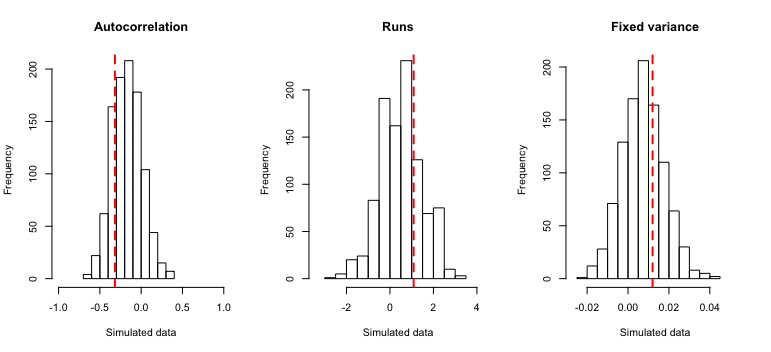
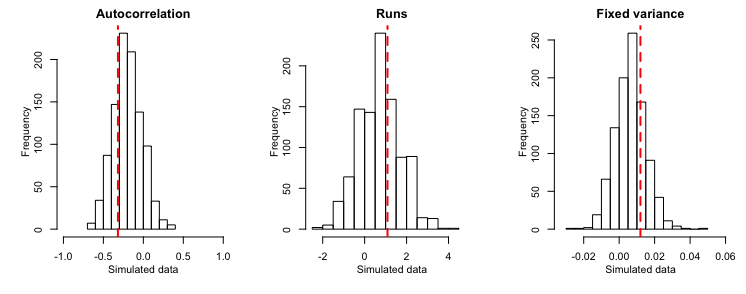
Updating the readme file with new results

diff --git a/README.md b/README.md
@@ -21,9 +21,15 @@ Install the package from github using devtools:
 install.packages("devtools")
 
 devtools::install_github("klvoje/adePEM")
+
+require(adePEM)
 ```
 
 The package depends on the `paleoTS` package.
+
+```
+require(paleoTS)
+```
 
 
 ## Example
@@ -64,10 +70,10 @@ replications     1000.00
 confidence level    0.95
 
 $summary
-           estimate  min.sim max.sim p-value Result
-auto.corr    -0.318 -0.69919 0.38265   0.436 PASSED
-runs.test   1.09003 -2.73719 3.34277   0.526 PASSED
-slope.test  0.01199  -0.0217 0.04293   0.618 PASSED
+           estimate  min.sim max.sim p-value result
+auto.corr    -0.318 -0.66474 0.36931   0.494 PASSED
+runs.test   1.09003  -2.0057 4.09368    0.68 PASSED
+slope.test  0.01199 -0.02635 0.04576   0.498 PASSED
 ```
 
 The first part of the output summarizes the number of bootstrap replications (the number of simulated data sets) used for assessing model adequacy and the confidence level. 1000 replications and a confidence level of 0.95 are the default settings, but both can be defined by the user when running the `fit3adequacy.RW` function.
@@ -99,10 +105,10 @@ replications     1000.00
 confidence level    0.95
 
 $summary
-           estimate  min.sim max.sim p-value Result
-auto.corr   0.15903 -0.07639 0.93098   0.034 FAILED
-runs.test  -0.41179 -4.93166 1.71372   0.042 FAILED
-slope.test  0.00355 -0.07232 0.06886   0.862 PASSED
+           estimate  min.sim max.sim p-value result
+auto.corr    0.0464 -0.02127 0.97608   0.004 FAILED
+runs.test  -0.54272 -5.29741 0.23802   0.028 FAILED
+slope.test  0.00637 -0.13183  0.2477   0.934 PASSED
 ```
 The trend model fails the autocorrelation test and the runs test, and passes the slope test. This suggests that the trend model is not an adequate statistical description of the data.
 
